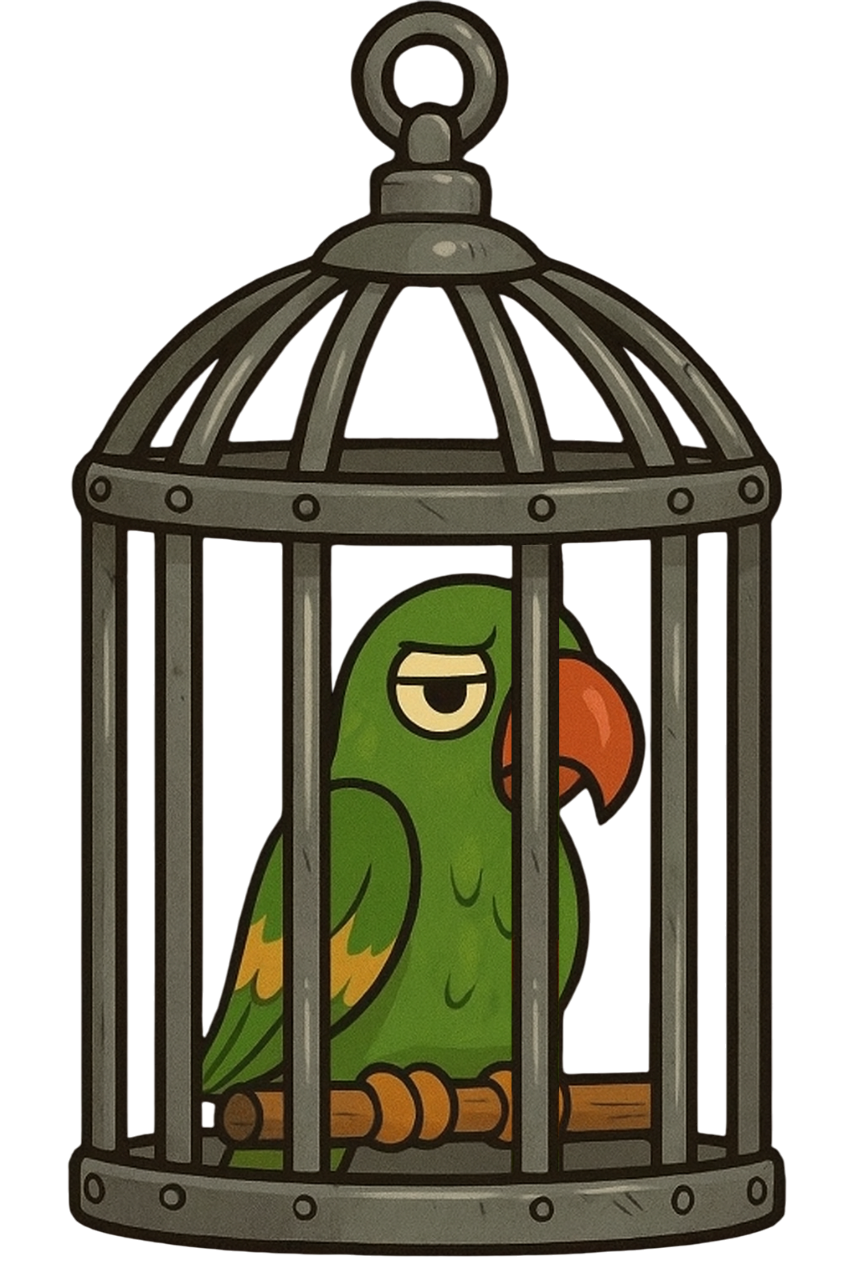
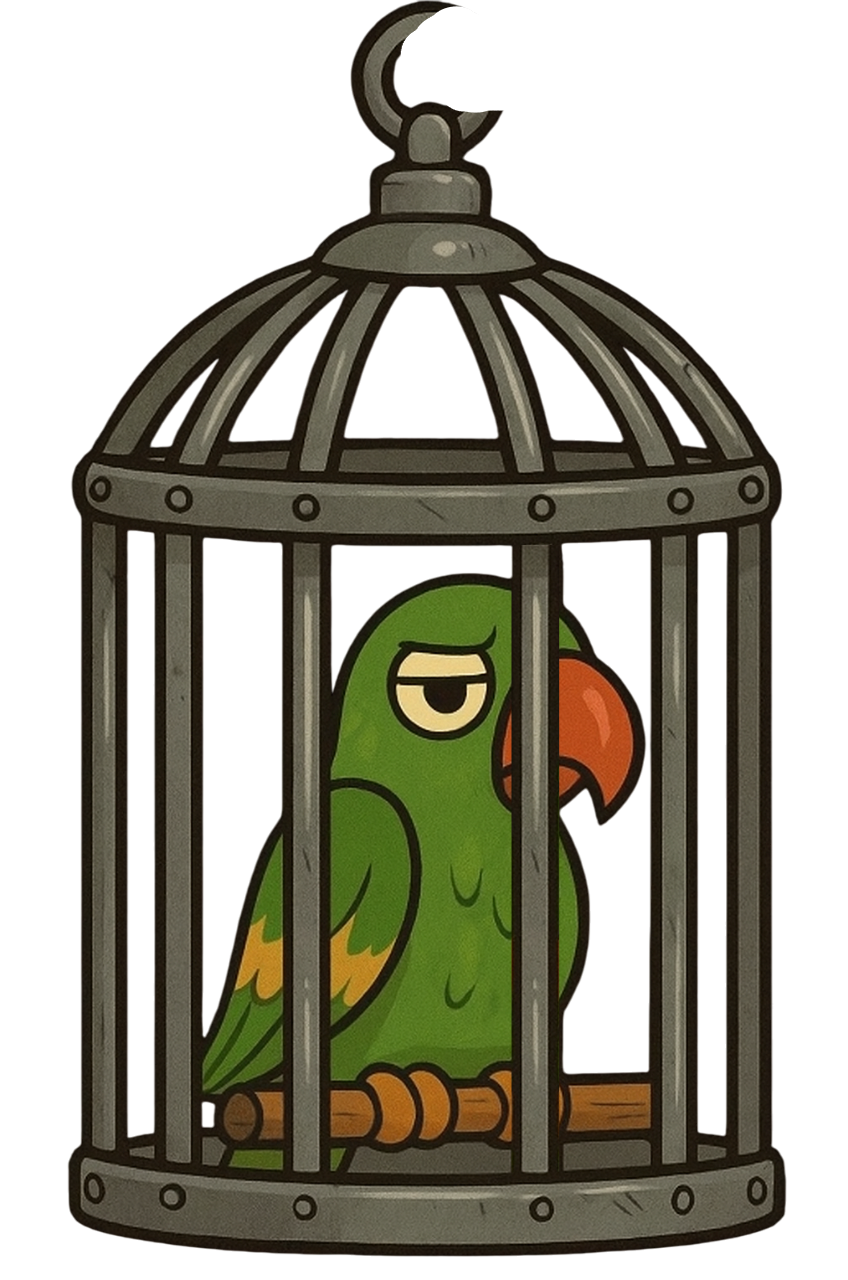
css eerste opdracht af

Changed region(s): [[0.4599, 0.0, 0.6132, 0.0938]]

diff --git a/html bestanden/css/lvl1.css b/html bestanden/css/lvl1.css
@@ -5,12 +5,14 @@
   height: 100%;
   display: block;
   position: absolute;
+  z-index: 1;
 }
 
 .secondPage {
   width: 100%;
   height: 100%;
   position: relative;
+  z-index: 1;
 }
 
 .map-container {
@@ -18,12 +20,14 @@
   height: 100%;
   position: relative;
   display: inline-block;
+  z-index: 1;
 }
 
 .map-container img {
   width: 100%;
   height: 100%;
   object-fit: contain;
+  z-index: 1;
 }
 
 /* ===== To-do list ===== */
@@ -33,6 +37,7 @@
   flex-direction: column;
   margin-left: 30px;
   margin-top: 10px;
+  z-index: 1;
 }
 
 /* ===== Level 1 ===== */
@@ -41,9 +46,11 @@
   font-size: 25px;
   display: none;
   flex-direction: column;
+  z-index: 1;
 }
 
 #uitlegLvl1 {
+  z-index: -2;
   background-color: green;
   position: absolute;
   margin: 0;
@@ -58,58 +65,89 @@
   background-color: rgb(73, 230, 73);
   padding: 1%;
   border-radius: 3%;
-  margin: 2% 4% 0% 30%;
+  margin: 2% 4% 0% 30vw;
   height: 90vh;
   flex-direction: column;
   overflow-y: auto;
   overflow-x: hidden;
   box-sizing: border-box;
+  z-index: 1;
 }
 
 #opdrachtLvl1 {
   display: none;
   margin: 2% 4% 0% 15%;
   align-self: flex-start;
+  z-index: 1;
 }
 
 /* ===== Text fixes ===== */
 .speech-bubble p {
   margin: 0;
+  z-index: 1;
 }
 
 #uitlegLvl10 p,
 #opdrachtLvl1 p {
   margin-top: 0;
   margin-bottom: 0.5em;
+  z-index: 1;
 }
 
 /* ===== Buttons in lvl1 ===== */
-.buttonNaarUitleg {
-  display: flex;
-  justify-content: center;
-  align-items: center;
-  border: none;
-  width: 11%;
-  height: 13%;
-  margin: 2% 0% 2% 2%;
-  background-color: transparent;
-  background-image: url('../pictures/sign.png'); /* let op pad! */
-  background-size: 100% 100%;
-  background-repeat: no-repeat;
-  position: absolute;
-  padding: 0;
-}
-
+.buttonNaarUitleg,
 .buttonNaarOpdracht,
 .buttonNaarHome,
 .buttonNaarNext {
   display: flex;
   justify-content: center;
   align-items: center;
-  border-radius: 14%;
-  width: 11%;
-  height: 20%;
-  margin: 14% 0% 2% 2%;
+  border: none;
+  min-width: 7vw;
+  max-width: 7vw;
+  height: auto;
+  object-fit: contain;
+  position: absolute;
+  font-size: large;
+  color:rgb(0, 0, 0);
+  background-image: url('../pictures/sign.png'); /* let op pad! */
+  background-size: 100% 100%;
+  background-repeat: no-repeat;
+  padding: 2vh;
+  background-color: transparent;
+  z-index: 1;
+}
+
+.buttonNaarUitleg {
+  margin-top: 60vh;
+  margin-left: 5.6vw;
+}
+
+.buttonNaarOpdracht {
+  margin-top: 70vh;
+  margin-left: 5.6vw;
+}
+
+.buttonNaarHome {
+  margin-top: 80vh;
+  margin-left: 2vw;
+}
+
+.buttonNaarNext {
+  margin-top: 80vh;
+  margin-left: 9vw;
+}
+
+.achtergrondlvl1 {
+  z-index: -1;
+  display: flex;
+  position: absolute;
+  height: 100vh;
+}
+
+.boomlvl1{
+  height: 100vh;
+  display: flex;
   position: absolute;
 }
 
@@ -121,8 +159,9 @@
   height: auto;
   object-fit: contain;
   position: absolute;
-  top: 10%;
-  left: 16%;
+  top: 22vh;
+  left: 16vw;
+  z-index: 1;
 }
 
 /* ===== Level buttons ===== */
@@ -139,6 +178,7 @@
   cursor: pointer;
   box-shadow: 1px 2px 4px rgba(0, 0, 0, 0.3);
   transition: all 0.2s ease;
+  z-index: 1;
 }
 
 .lvlButtons:hover {
@@ -160,7 +200,7 @@
 #btn-7 { top: 32vh; right: 43vh; }
 
 /* ===== JS hooks ===== */
-.js-head {}
-.js-opdracht {}
-.js-nakijken {}
-.js-resultaat {}
+.js-head { z-index: 1; }
+.js-opdracht { z-index: 1; }
+.js-nakijken { z-index: 1; }
+.js-resultaat { z-index: 1; }

diff --git a/html bestanden/main-menu.html b/html bestanden/main-menu.html
@@ -120,9 +120,12 @@
         document.write('volgende pagina als drie oprachten goed anders niet');">
       next
     </button>
-
-    <img src="pictures/papegaaiInKooi.png" alt="" class="papegaaiInKooi">
-
+    <div class="achtergrondlvl1">
+      <img src="pictures/boomlvl1.png" alt="" class="boom">
+      <div>
+        <img src="pictures/papegaaiInKooi.png" alt="" class="papegaaiInKooi">
+      </div>
+    </div>
     <div>
       <div id="uitlegLvl10">
         <p>
